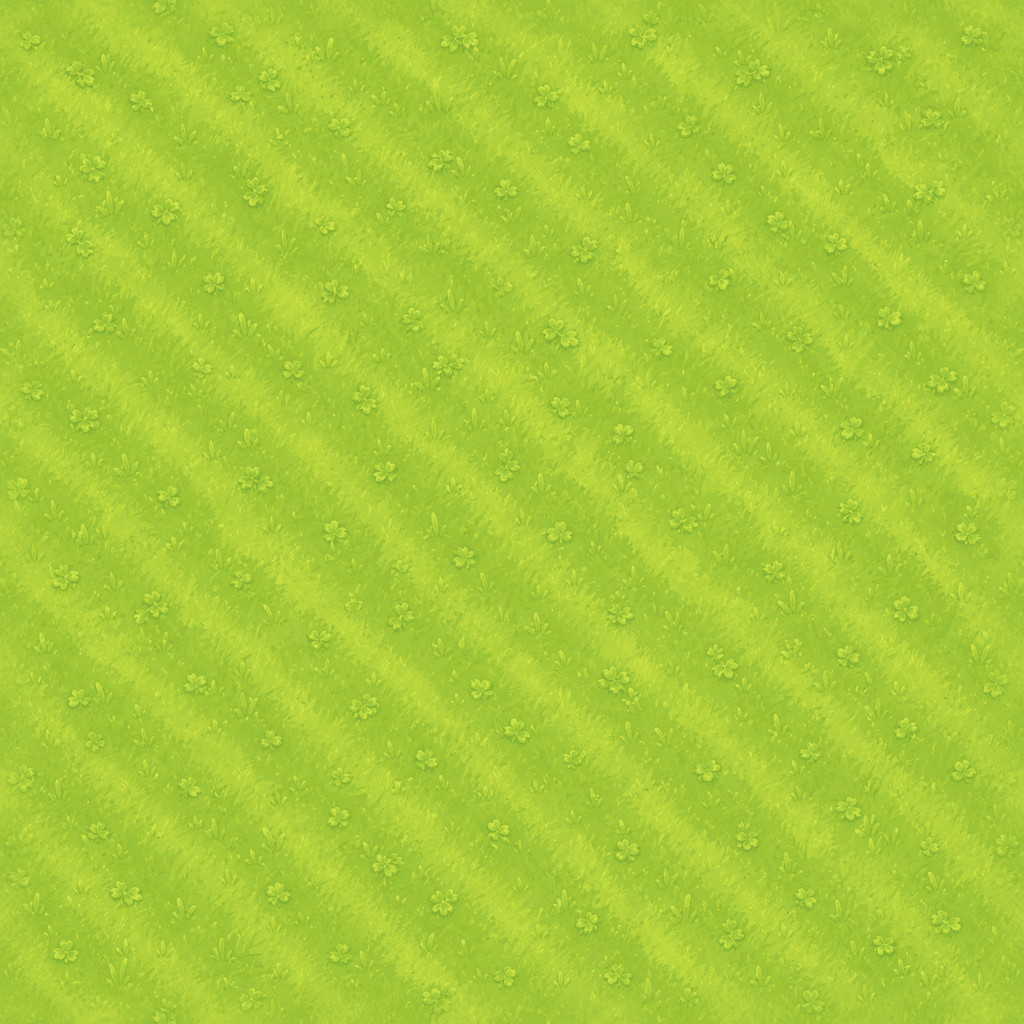
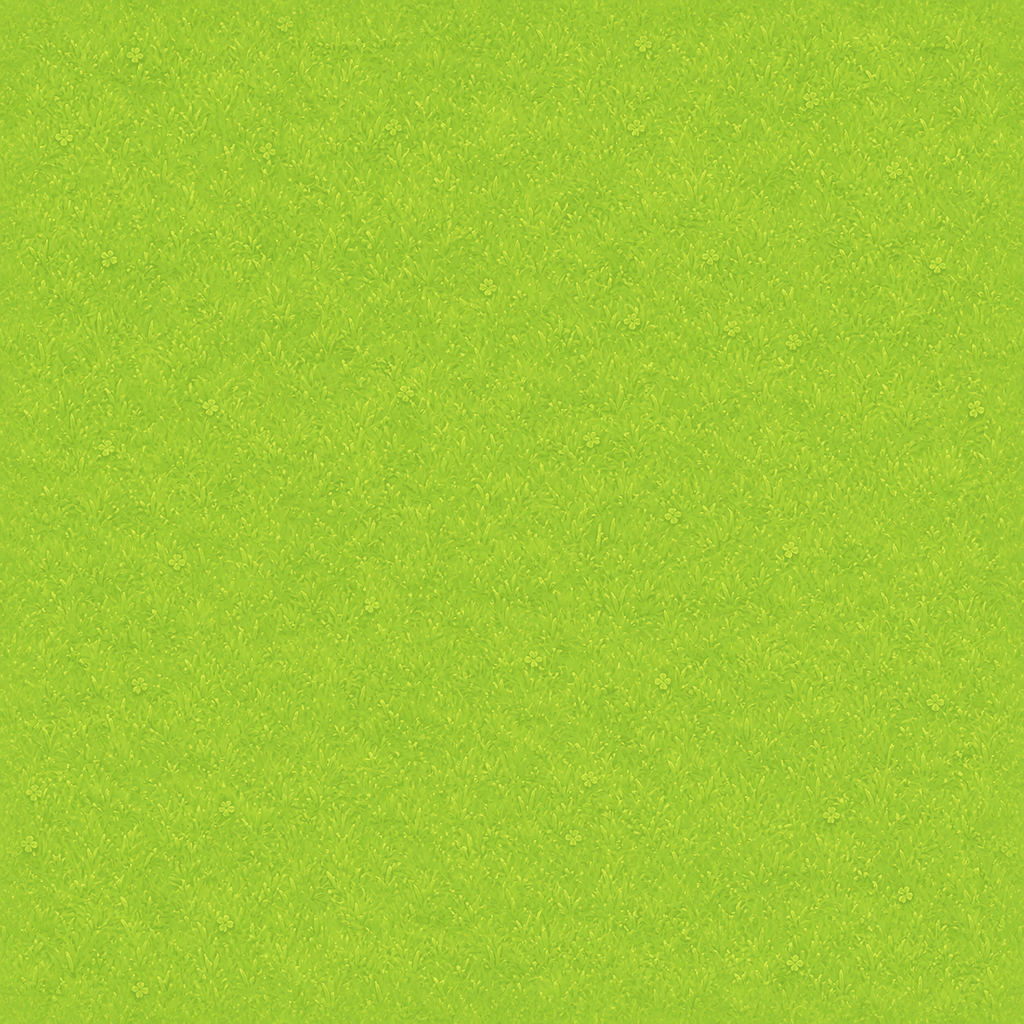
Remove world texture banding

diff --git a/art-renders/briefs/finish_final_look_world.py b/art-renders/briefs/finish_final_look_world.py
@@ -11,6 +11,7 @@ from PIL import Image, ImageFilter, ImageOps
 
 ROOT = Path(__file__).resolve().parents[1]
 WORK = ROOT / "visual" / "work" / "final_look_10"
+WORLD_REBUILD_WORK = ROOT / "visual" / "work" / "final_look_11"
 FINAL = ROOT / "visual" / "final" / "map"
 
 
@@ -58,12 +59,14 @@ def blend_opposite_edges(image: Image.Image, band: int) -> Image.Image:
 
 
 def finish_grass() -> None:
-    source = Image.open(WORK / "ground_tile_grass_source.png").convert("RGB")
+    grass_v2 = WORLD_REBUILD_WORK / "ground_tile_grass_v2_source.png"
+    grass_source = grass_v2 if grass_v2.is_file() else WORK / "ground_tile_grass_source.png"
+    source = Image.open(grass_source).convert("RGB")
     source = center_crop_ratio(source, 1.0).resize((1024, 1024), Image.Resampling.LANCZOS)
     source = blend_opposite_edges(source, 48)
     # A restrained palette is invisible at runtime scale and keeps the full
     # seamless tile below the repository's 1.5 MB mobile-texture budget.
-    source = source.quantize(colors=96, method=Image.Quantize.MEDIANCUT).convert("RGB")
+    source = source.quantize(colors=64, method=Image.Quantize.MEDIANCUT)
     source.save(FINAL / "ground_tile_grass.png", optimize=True)
 
 

diff --git a/docs/11_world_asset_prompts.md b/docs/11_world_asset_prompts.md
@@ -133,3 +133,13 @@ Avoid: screen-horizontal roads, screen-vertical roads, orthographic plus-sign ro
 | `road_iso_cross` | 1024×1024 | RGBA | 0 | 0 px |
 
 道路主轴复核：`road_iso_a=-31.19°`、`road_iso_b=+30.74°`；最终 `python3 tools/check_assets.py --strict` 验证 152/152 资产全部通过。
+
+## 7. `ground_tile_grass` v2
+
+源生成图：`/Users/gavin/.codex/generated_images/019fbe5f-c128-7711-b816-3e32148cf91a/exec-3aba5355-7589-416e-9d14-c825fdd7e432.png`
+
+```text
+Use case: stylized-concept. Create a production-ready seamless square tileable cartoon lawn texture for the world map of Data Center Tycoon. Match the friendly polished hand-painted mobile-game rendering, yellow-green color family, brightness, and fine detail scale of the first reference, but remove its visible directional diagonal bands and any vignette. The output must be a perfectly full-bleed opaque square lawn texture with seamless wrap on all four edges. Uniform calm yellow-green grass, fine short hand-painted blades and strokes pointing in randomized directions, tiny clover accents at about 3% sparse density, extremely subtle hue variation only at micro scale, flat even lighting. It must read as quiet ground at 25% zoom so buildings and roads remain dominant. NO directional stripes, NO diagonal streak bands, NO vignette, NO center glow, NO edge darkening, NO large repeating motifs, NO paths, NO soil, NO flowers larger than tiny specks, NO objects, buildings, shadows, text, border, frame, transparency, logos, or watermark. Camera is flat texture view rather than a scene. Exact square composition with texture continuing naturally through every edge.
+```
+
+收尾：`finish_final_look_world.py` 对边 48px cosine blend、64 色移动端调色板；最终 1024×1024 P-mode PNG，775,855 bytes，左右/上下边界平均像素误差均为 0。

diff --git a/docs/11_world_rebuild_and_final_checklist.md b/docs/11_world_rebuild_and_final_checklist.md
@@ -141,7 +141,11 @@
   | ![F5 修复前，同位置放大](ui_review/11_f5_before_zh_zoom.png) | ![F5 修复后，同位置放大](ui_review/11_f5_after_zh_zoom.png) |
 
 - [x] 六件素材均通过正式 `import_assets.py --visual` 管线进入 `assets/art/map/`；manifest 从 146 扩展至 152，尺寸、RGBA、透明边界和残余洋红均通过严格资产检查。完整生成 prompt、源图与交付路径见 [11_world_asset_prompts.md](11_world_asset_prompts.md)。
-- [ ] **F4 尚未关闭。** 本批已将 `world_edge_fog` 呼吸范围从 0.50–0.65 降至 0.225–0.275，但草地 v2 尚未替换，须等无方向条纹的新 tile 接入并补同位置截图后一起关闭。
+- [x] **F4 · 草地平铺与世界雾完成收敛。** 草地 v2 使用随机方向细草笔触与约 3% 小型三叶草，通过 48px 对边 cosine blend 后左右/上下边界像素误差均为 0；调色板压缩后 1024² 成品 775,855 bytes。`world_edge_fog` 呼吸范围从 0.50–0.65 降至 0.225–0.275，中央保持透明，并由视觉门禁锁定。以下两图均取 `campus_dense` 的 `(x=0, y=180, w=990, h=620)`：
+
+  | 修复前 | 修复后 |
+  |---|---|
+  | ![F4 修复前，同位置放大](ui_review/11_f4_before_zh_zoom.png) | ![F4 修复后，同位置放大](ui_review/11_f4_after_zh_zoom.png) |
 
   | 批次③完整运行态 | `campus_dense` | `map_built` |
   |---|---|---|
